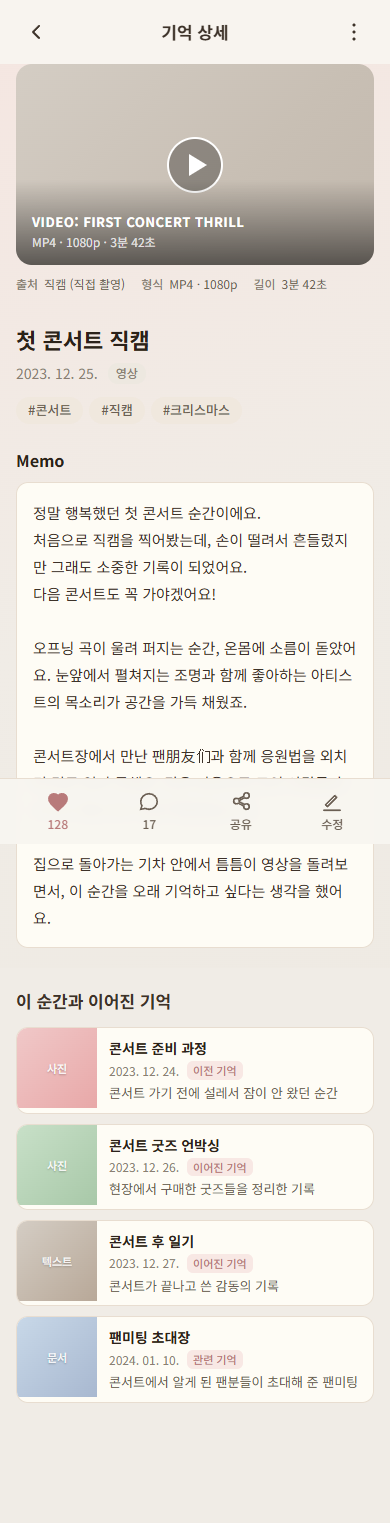
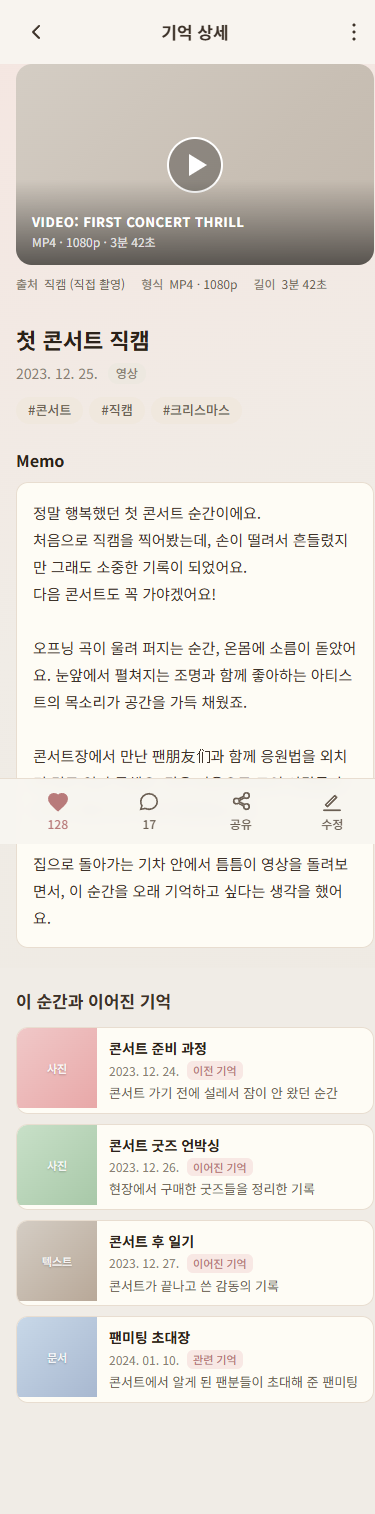
docs: refresh memory detail evidence without global overrides

diff --git a/docs/evidence/memory-detail-visual/visual-validation.md b/docs/evidence/memory-detail-visual/visual-validation.md
@@ -3,21 +3,23 @@
 ## Branch Preview URL
 
 - **Branch Preview**: `https://style-memory-detail-visual-r.lovetree3.pages.dev/memory/detail-demo`
-- **Deployment Preview**: `https://a22d48fa.lovetree3.pages.dev/memory/detail-demo`
+- **Deployment Preview**: `https://caa99363.lovetree3.pages.dev/memory/detail-demo`
 - **Production**: `https://lovetree3.pages.dev/memory/detail-demo`
 
-## Commits
+## Commits (Full SHA)
 
 | Item | SHA |
 |------|-----|
 | Current main | `8f9a24822f57b2a8174d08bbc97f0690f194ede3` |
-| Visual source (code) | `388bcf730d06a5c0de9dd980a4326da8d0d2f36a` |
-| Evidence (docs) | `034c2bcdce368a760fb06a599cb0c88027950f7e` |
+| Visual source (code) | `591fa38ec65e28e95f2f3be7ebd14b51d26c2cab` |
+| Evidence (docs) | *(this file is part of the evidence commit, pending)* |
 | Merge-main commit | `d0908fe` |
 | Semantic test fix | `1955bf9` |
 | Desktop CSS fix | `cf56a3e` |
 | Scrollbar fix | `3652b52` |
-| Final branch head | `3652b52115160a44de85fbe8ed7dd62fce83c13f` |
+| Global scrollbar removal | `591fa38ec65e28e95f2f3be7ebd14b51d26c2cab` |
+| Final branch head | `591fa38ec65e28e95f2f3be7ebd14b51d26c2cab` |
+| Cloudflare deployed source | `591fa38ec65e28e95f2f3be7ebd14b51d26c2cab` |
 
 ## Browser / Version
 
@@ -33,10 +35,10 @@
 
 | Item | Value |
 |------|-------|
-| Viewport | 390 × 844 |
+| Requested viewport | 390 × 844 |
 | DPR | 1 |
-| PNG dimensions | 390 × 1523 |
[1 lines of base64/hex data omitted]
+| Actual PNG dimensions | 375 × 1514 |
[1 lines of base64/hex data omitted]
 | Console errors | 0 |
 | Page errors | 0 |
 | Failed requests | 0 |
@@ -46,20 +48,24 @@
 | Tag clipping | None |
 | Related memory card clipping | None |
 
+**Note**: Actual PNG width is 375px (viewport 390px minus ~15px Windows scrollbar). This is expected browser behavior without global scrollbar overrides.
+
 ## Desktop 1440px
 
 | Item | Value |
 |------|-------|
-| Viewport | 1440 × 1000 |
+| Requested viewport | 1440 × 1000 |
 | DPR | 1 |
-| PNG dimensions | 1440 × 1736 |
[1 lines of base64/hex data omitted]
+| Actual PNG dimensions | 1425 × 1736 |
[1 lines of base64/hex data omitted]
 | Console errors | 0 |
 | Page errors | 0 |
 | Failed requests | 0 |
 | Horizontal overflow | 0px |
 | Desktop 2-column layout | Yes — main area + 360px sidebar |
 | Fixed/sticky overlap | None |
+
+**Note**: Actual PNG width is 1425px (viewport 1440px minus ~15px Windows scrollbar). This is expected browser behavior without global scrollbar overrides.
 
 ## Unimplemented Interactions
 
@@ -79,4 +85,3 @@
 3. Reference shows a pen/write icon next to the Memo body; implementation omits this as non-functional.
 4. Related memory cards use vertical layout (thumbnail on top) on mobile matching the reference; desktop uses 2-column grid.
 5. Desktop layout: sidebar includes author info, reaction stats, and tree context — not present in the mobile-only reference.
-6. Scrollbar is hidden via CSS (`scrollbar-width: none` + `::-webkit-scrollbar { display: none }`) on the html element to ensure exact viewport-width screenshots.

diff --git a/docs/evidence/memory-detail-visual/known-visual-differences.md b/docs/evidence/memory-detail-visual/known-visual-differences.md
@@ -31,8 +31,3 @@
 - **Reference**: Slightly different warm tone pills with specific color per tag
 - **Implementation**: Consistent warm-toned pills (`#f0e8de` background)
 - **Reason**: Minimal visual difference; follows project tag convention
-
-### 7. Scrollbar Hiding
-- **Reference**: No visible scrollbar in reference screenshots
-- **Implementation**: HTML scrollbar hidden via CSS (`scrollbar-width: none` + `::-webkit-scrollbar { display: none }`)
-- **Reason**: Ensures exact viewport-width screenshots; Windows overlay scrollbar behavior
